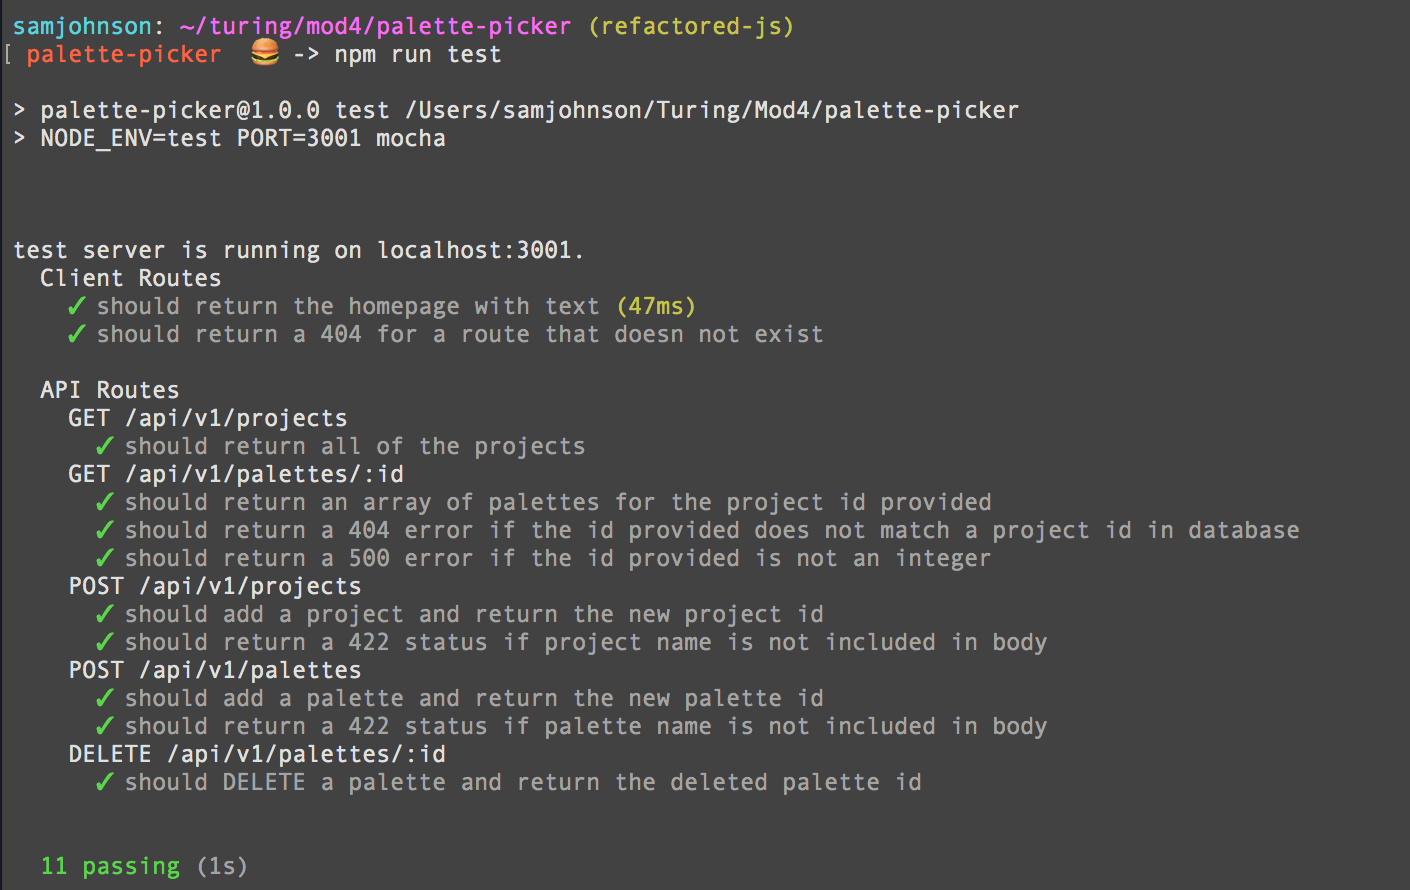
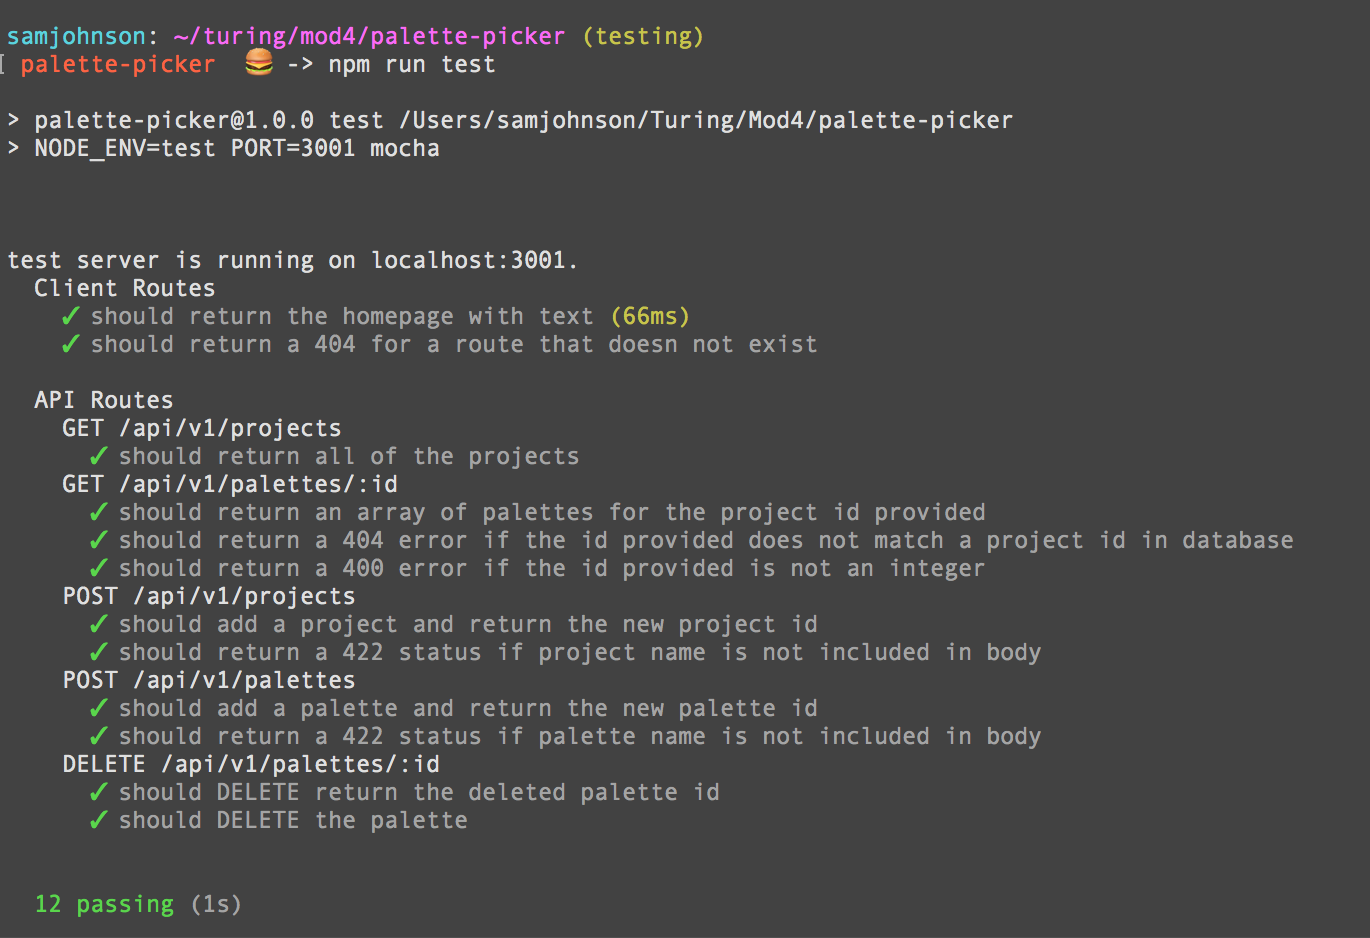
Add test to confirm deletion of palette

Changed region(s): [[0.0, 0.2427, 0.9504, 0.9101], [0.0, 0.0, 0.7358, 0.182], [0.0307, 0.9404, 0.1839, 1.0]]

diff --git a/test/routes.spec.js b/test/routes.spec.js
@@ -191,20 +191,36 @@ describe('API Routes', () => {
         done();
       });
     });
-
-    //more tests for 422 status
-
   });
 
   describe('DELETE /api/v1/palettes/:id', () => {
-    it('should DELETE a palette and return the deleted palette id', (done) => {
+    it('should DELETE return the deleted palette id', (done) => {
       chai.request(server)
       .delete('/api/v1/palettes/4')
       .end((error, response) => {
         response.should.have.status(200);
         response.body.should.equal("Palette with id: 4 was deleted!");
-        //add integration testing to confirm number of palettes before and after
         done();
+      });
+    });
+
+    it('should DELETE the palette', (done) => {
+      chai.request(server)
+      .get('/api/v1/palettes/1')
+      .end((error, response) => {
+        response.body.length.should.equal(2);
+        chai.request(server)
+        .delete('/api/v1/palettes/2')
+        .end((error, response) => {
+          response.should.have.status(200);
+          response.body.should.equal("Palette with id: 2 was deleted!");
+          chai.request(server)
+          .get('/api/v1/palettes/1')
+          .end((error, response) => {
+            response.body.length.should.equal(1)
+            done();
+          });
+        });
       });
     });
   });
